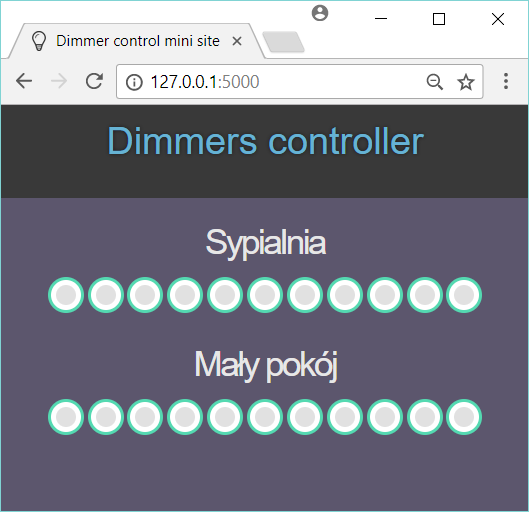
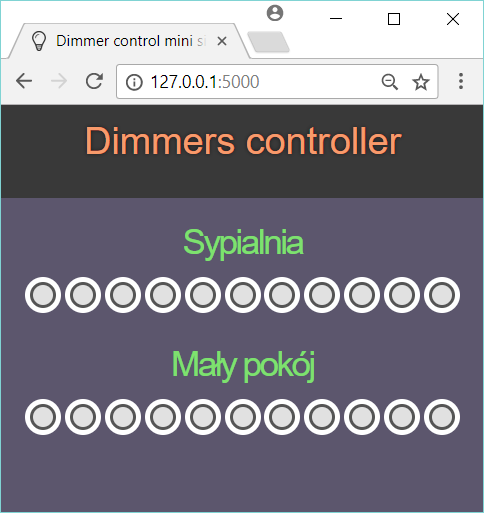
some cosmetic changes

diff --git a/dimmer_control/templates/main.html b/dimmer_control/templates/main.html
@@ -25,14 +25,14 @@
 <body style="background-color: #9b969c">
 <div class="container limit center"  style="padding-top: 0px; background-color: #5b566c">
 	<table class="tbl alternate center narrow dark push-30"><tbody><tr><td>
-        <h1 class="center blue text-shadow">Dimmers controller</h1>
+        <h1 class="center orange text-shadow">Dimmers controller</h1>
     </td></tr></tbody></table>
 	<div class="row">
     {% for room in rooms %}
     <div class="col of-{{ columns }} push-30">
-		<h2 class="herotype center silver">{{ room }}</h2>
+		<h2 class="herotype center lime">{{ room }}</h2>
         {% for level in levels %}
-            <a href="/{{ room }}/set_level/{{ level }}" class="btn-touch-round green" aria-label="navigation">
+            <a href="/{{ room }}/set_level/{{ level }}" class="btn-touch-round white" aria-label="navigation">
               <span class="circle">
                 <span class="inner-circle"></span>
               </span>
